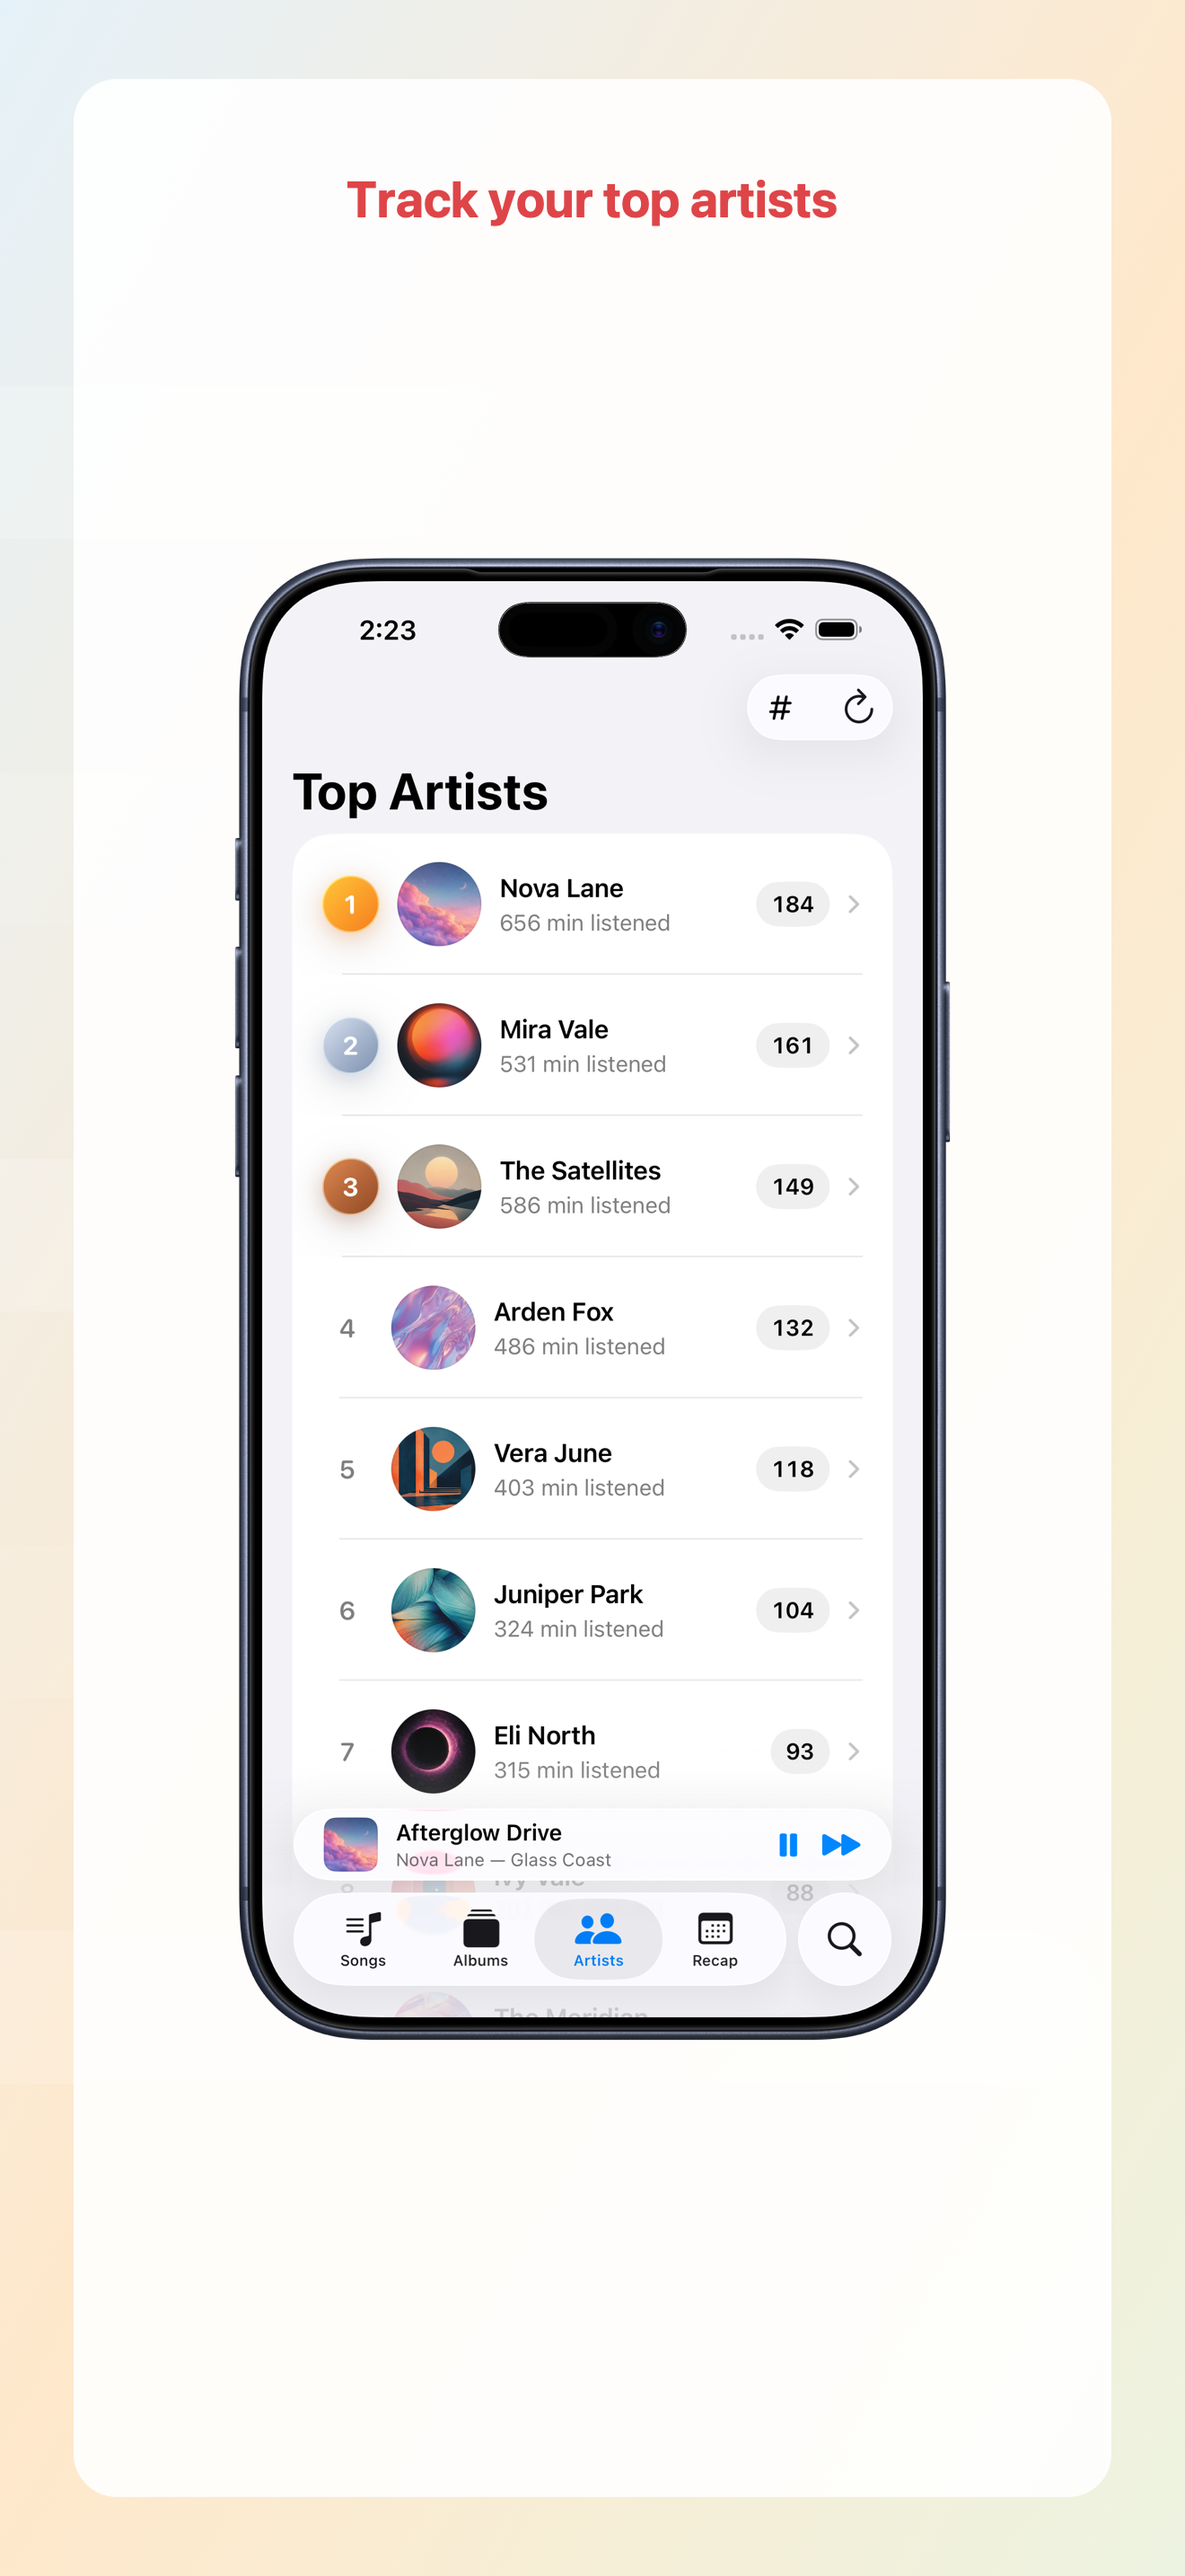
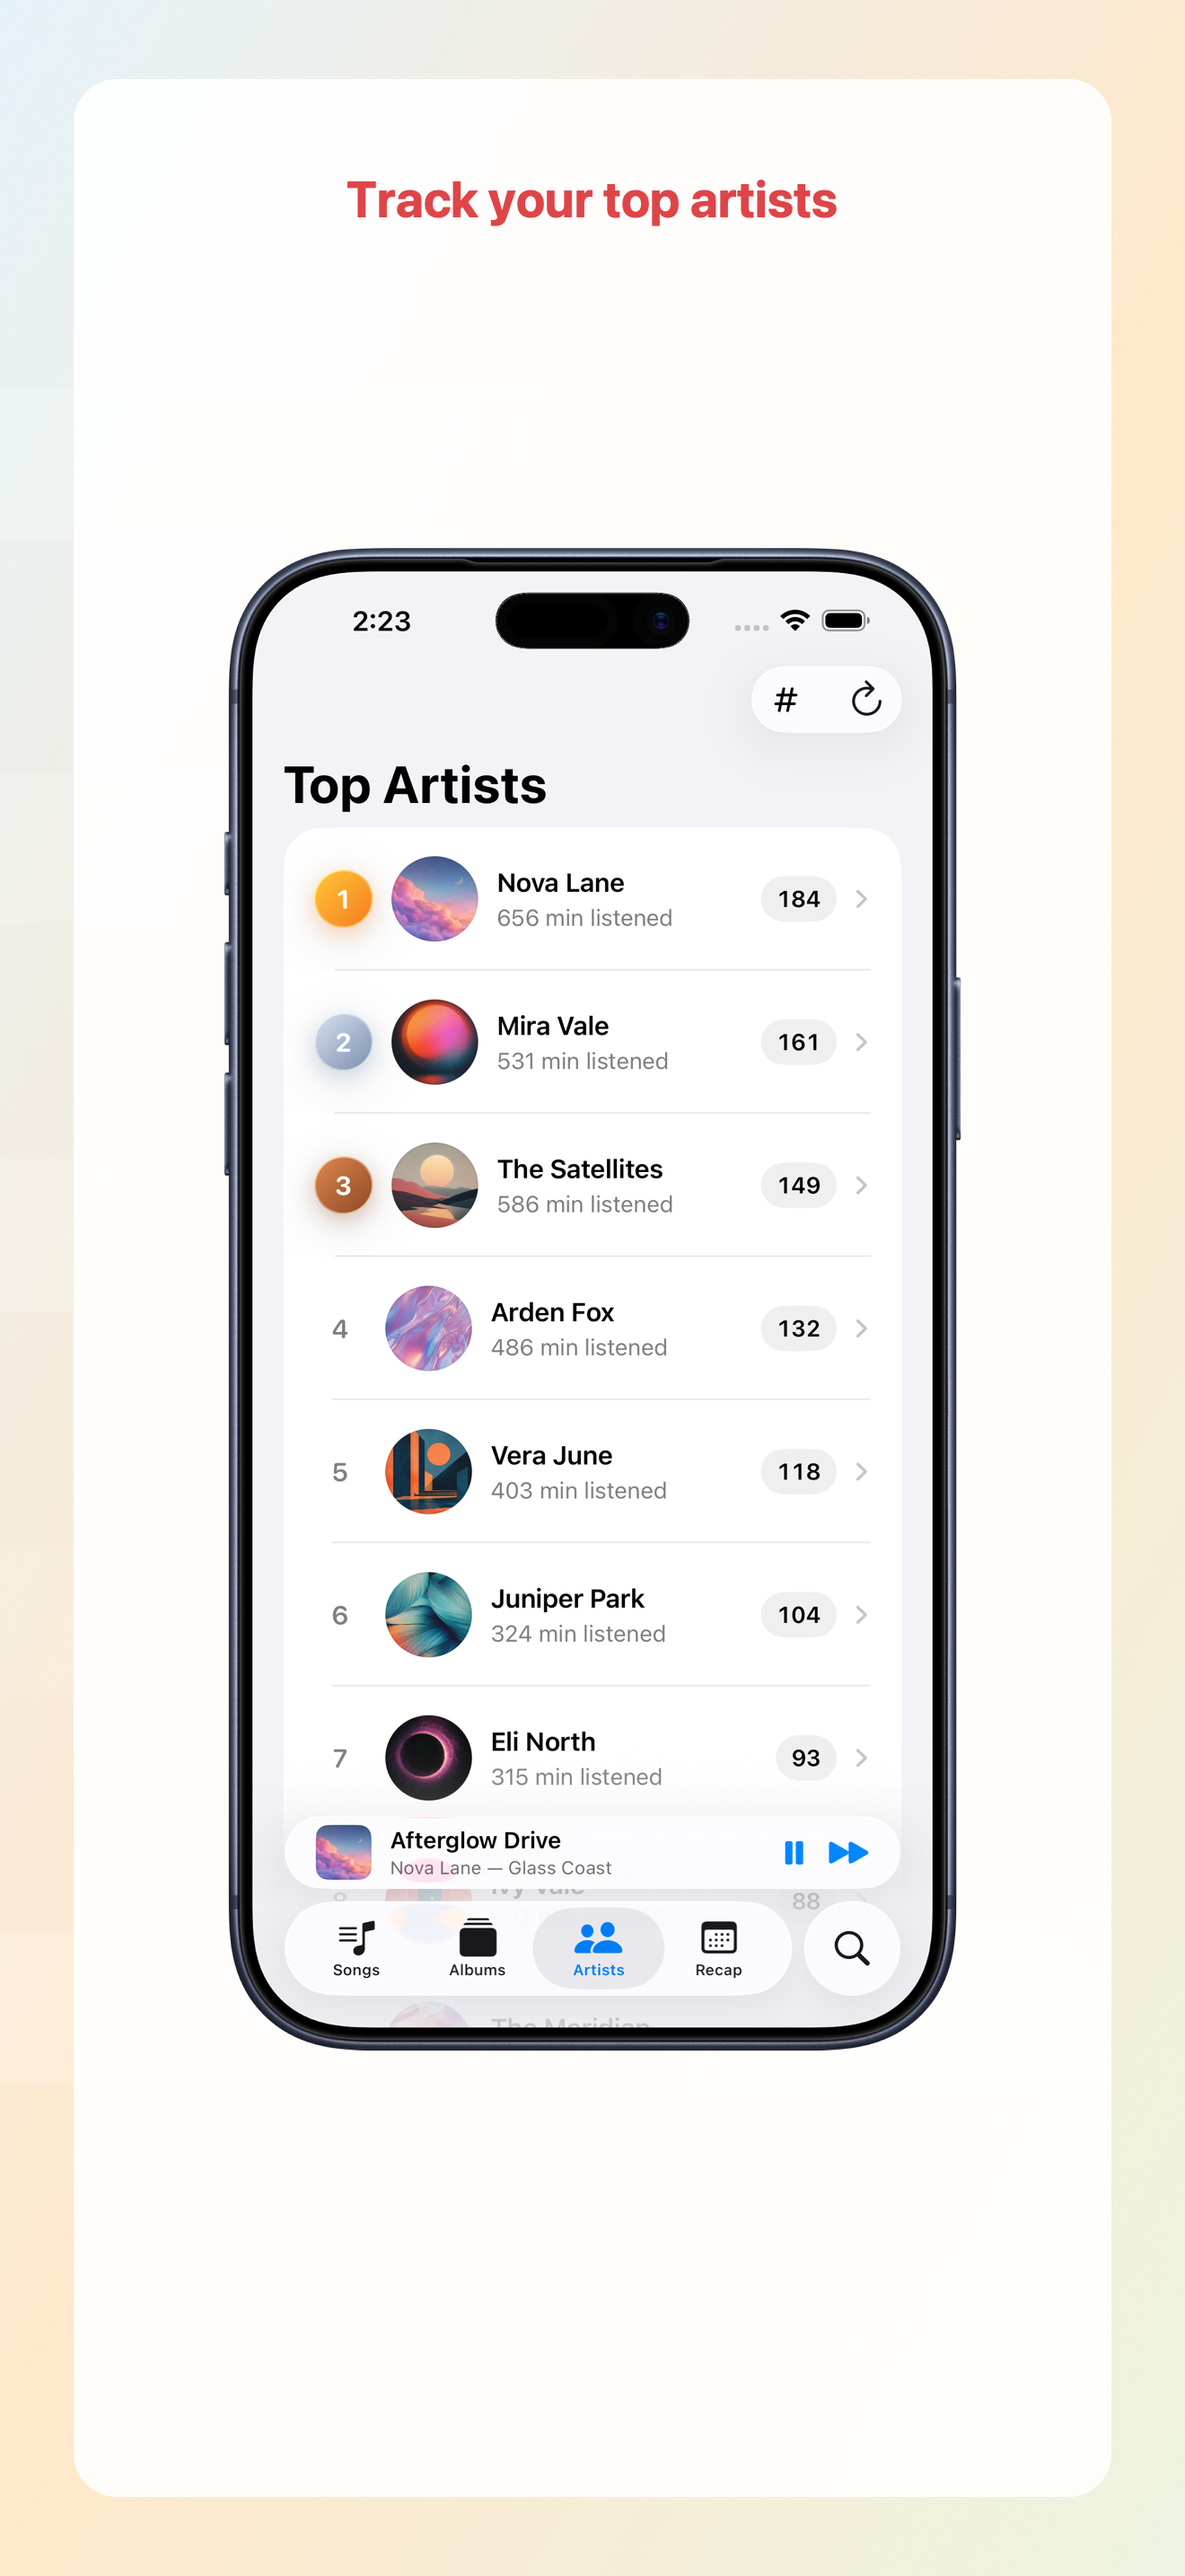
Match App Store frame crop to Cauldron

diff --git a/tools/create_app_store_framed_screenshots.swift b/tools/create_app_store_framed_screenshots.swift
@@ -123,6 +123,7 @@ struct BezelCompositeAssets {
     let overlay: CGImage
     let screenMask: CGImage
     let screenBounds: CGRect
+    let visibleBounds: CGRect
 }
 
 func makeBezelCompositeAssets(from image: CGImage) throws -> BezelCompositeAssets {
@@ -177,6 +178,21 @@ func makeBezelCompositeAssets(from image: CGImage) throws -> BezelCompositeAsset
     var minY = height
     var maxX = 0
     var maxY = 0
+    var visibleMinX = width
+    var visibleMinY = height
+    var visibleMaxX = 0
+    var visibleMaxY = 0
+
+    for y in 0..<height {
+        for x in 0..<width {
+            let offset = y * bytesPerRow + x * bytesPerPixel
+            guard pixels[offset + 3] > 10 else { continue }
+            visibleMinX = min(visibleMinX, x)
+            visibleMinY = min(visibleMinY, y)
+            visibleMaxX = max(visibleMaxX, x)
+            visibleMaxY = max(visibleMaxY, y)
+        }
+    }
 
     while let point = stack.popLast() {
         guard point.x >= 0, point.x < width, point.y >= 0, point.y < height else { continue }
@@ -222,7 +238,13 @@ func makeBezelCompositeAssets(from image: CGImage) throws -> BezelCompositeAsset
     return BezelCompositeAssets(
         overlay: overlay,
         screenMask: mask,
-        screenBounds: CGRect(x: minX, y: minY, width: maxX - minX + 1, height: maxY - minY + 1)
+        screenBounds: CGRect(x: minX, y: minY, width: maxX - minX + 1, height: maxY - minY + 1),
+        visibleBounds: CGRect(
+            x: visibleMinX,
+            y: visibleMinY,
+            width: visibleMaxX - visibleMinX + 1,
+            height: visibleMaxY - visibleMinY + 1
+        )
     )
 }
 
@@ -248,6 +270,29 @@ func makeScreenshotLayer(screenshot: CGImage, bezelSize: CGSize, screenBounds: C
         throw NSError(domain: "renderer", code: 10)
     }
     return output
+}
+
+func makeDeviceComposite(screenshotLayer: CGImage, bezelOverlay: CGImage, bezelSize: CGSize, visibleBounds: CGRect) throws -> CGImage {
+    guard let context = CGContext(
+        data: nil,
+        width: Int(bezelSize.width),
+        height: Int(bezelSize.height),
+        bitsPerComponent: 8,
+        bytesPerRow: 0,
+        space: CGColorSpaceCreateDeviceRGB(),
+        bitmapInfo: rgbaBitmapInfo
+    ) else {
+        throw NSError(domain: "renderer", code: 11)
+    }
+
+    context.draw(screenshotLayer, in: CGRect(x: 0, y: 0, width: bezelSize.width, height: bezelSize.height))
+    context.draw(bezelOverlay, in: CGRect(x: 0, y: 0, width: bezelSize.width, height: bezelSize.height))
+
+    guard let fullDevice = context.makeImage(),
+          let croppedDevice = fullDevice.cropping(to: visibleBounds) else {
+        throw NSError(domain: "renderer", code: 12)
+    }
+    return croppedDevice
 }
 
 func render(_ shot: Shot) throws {
@@ -294,9 +339,14 @@ func render(_ shot: Shot) throws {
         screenBounds: bezelAssets.screenBounds,
         screenMask: bezelAssets.screenMask
     )
+    let deviceComposite = try makeDeviceComposite(
+        screenshotLayer: screenshotLayer,
+        bezelOverlay: bezelAssets.overlay,
+        bezelSize: bezelSize,
+        visibleBounds: bezelAssets.visibleBounds
+    )
 
-    context.draw(screenshotLayer, in: flipped(deviceFrame))
-    context.draw(bezelAssets.overlay, in: flipped(deviceFrame))
+    context.draw(deviceComposite, in: flipped(deviceFrame))
 
     guard let image = context.makeImage() else {
         throw NSError(domain: "renderer", code: 3)
